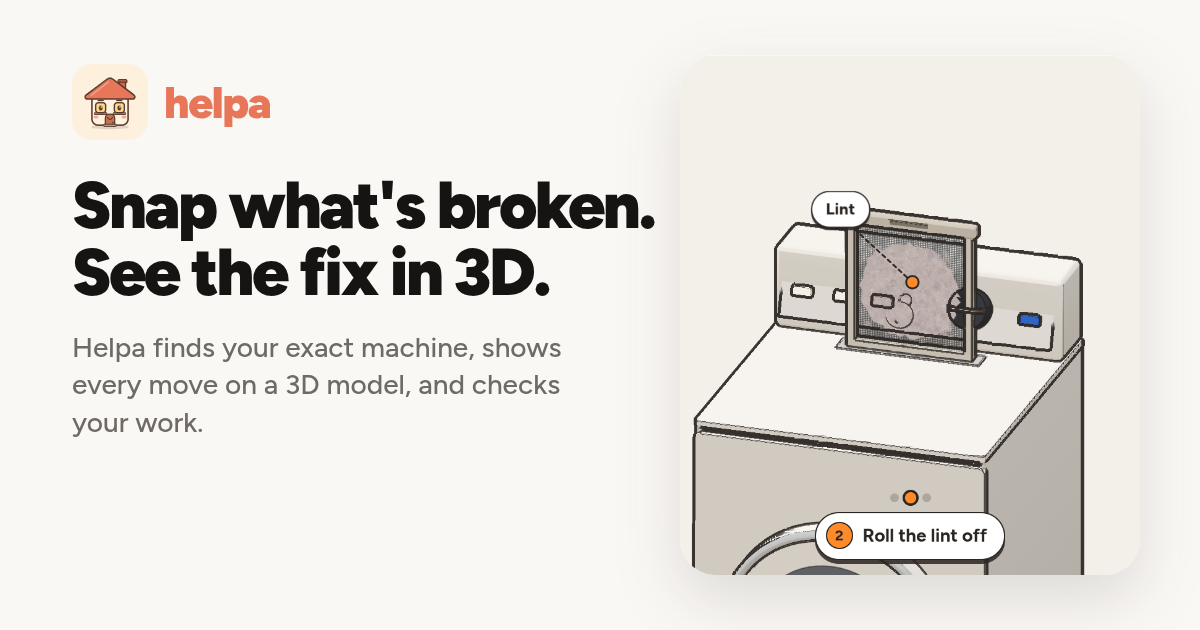
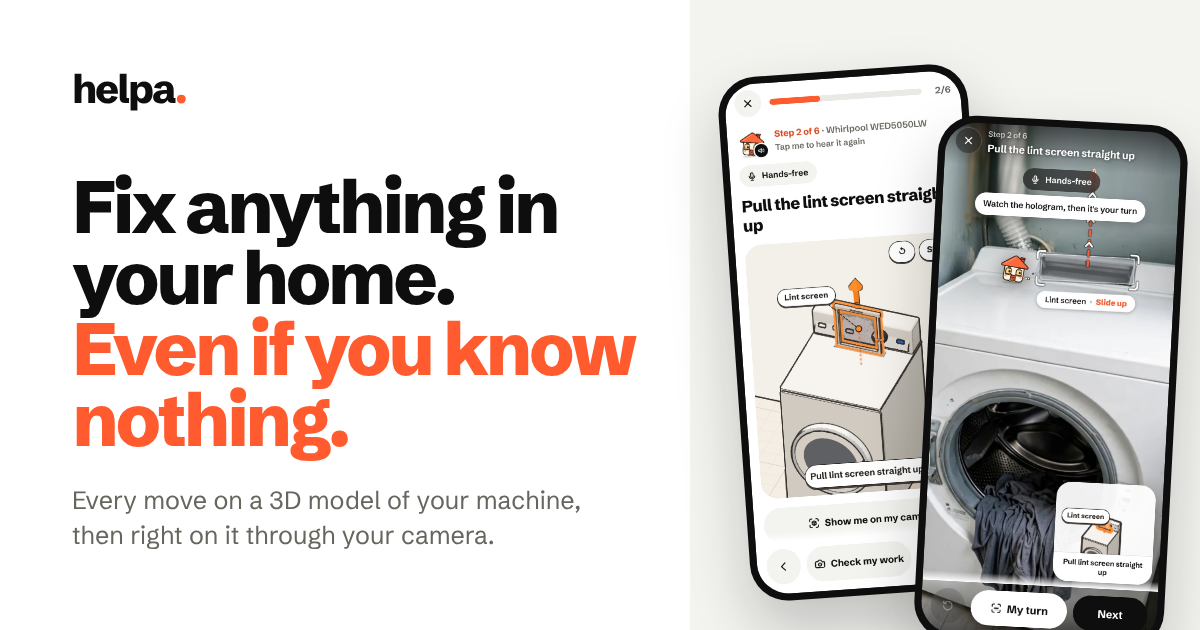
Share card in the new look, job page leads with the part you ordered, fresh landing job shot
Claude-Session: https://claude.ai/code/session_01KpGGyNTtQ8wxYNhUeJVnmD

diff --git a/app/app/components/JobPage.tsx b/app/app/components/JobPage.tsx
@@ -185,10 +185,14 @@ export default function JobPage({ job, onChange, onBack, onInstall, onDeleted }:
         </AnimatePresence>
         {sample && <p className="job-sample">Offline mode: these results are samples, not real stores or businesses.</p>}
 
+        {job.parts.map((item) => (
+          <PartCard key={item.id} job={job} part={item} busy={busy} run={run} />
+        ))}
+
         {unfound.length > 0 && job.status !== "done" && (
           <article className="card job-card">
             <h2 className="card-title">
-              <Icon name="tag" size={20} /> Parts it may need
+              <Icon name="tag" size={20} /> {job.parts.length ? "Other parts it may need" : "Parts it may need"}
             </h2>
             <p className="job-muted">Only if the steps show it&apos;s worn or broken. Helpa finds the exact one for your machine.</p>
             <ul className="job-buy">
@@ -207,9 +211,6 @@ export default function JobPage({ job, onChange, onBack, onInstall, onDeleted }:
           </article>
         )}
 
-        {job.parts.map((item) => (
-          <PartCard key={item.id} job={job} part={item} busy={busy} run={run} />
-        ))}
 
         {(job.status === "needs_pro" || job.pros.length > 0) && job.status !== "pro_booked" && <ProFinder job={job} busy={busy} run={run} />}
 

diff --git a/app/app/layout.tsx b/app/app/layout.tsx
@@ -11,9 +11,9 @@ export const metadata: Metadata = {
   // Share cards need absolute URLs; set SITE_URL to the public address when deploying.
   metadataBase: new URL(process.env.SITE_URL ?? "http://localhost:3000"),
   title: "Helpa",
-  description: "Snap what's broken and Helpa shows you the fix, step by step, on a 3D model of your machine.",
-  openGraph: { title: "Helpa: see the fix in 3D", description: "Snap what's broken. Helpa finds your exact machine, shows every move on a 3D model, and checks your work.", siteName: "Helpa" },
-  twitter: { card: "summary_large_image", title: "Helpa: see the fix in 3D" },
+  description: "Fix anything in your home, even if you know nothing. Snap what's broken and Helpa shows every move on a 3D model of your machine, then on the machine itself.",
+  openGraph: { title: "Helpa: fix anything in your home", description: "Snap what's broken. Helpa finds your exact machine, shows every move in 3D and on your camera, checks your work, and handles the part or the pro.", siteName: "Helpa" },
+  twitter: { card: "summary_large_image", title: "Helpa: fix anything in your home" },
   applicationName: "Helpa",
   appleWebApp: { capable: true, title: "Helpa", statusBarStyle: "default" },
   icons: {
